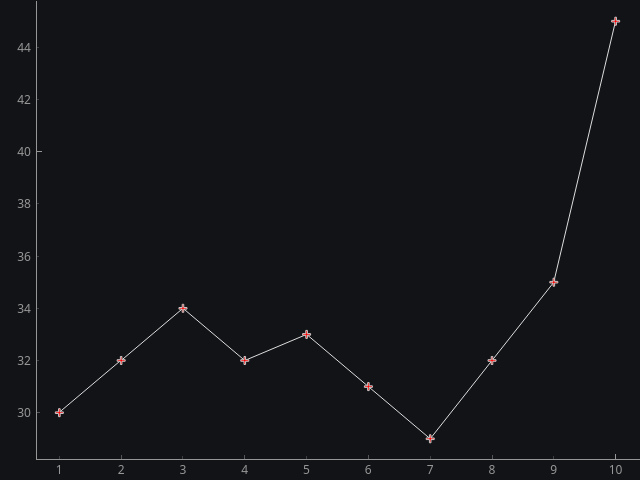
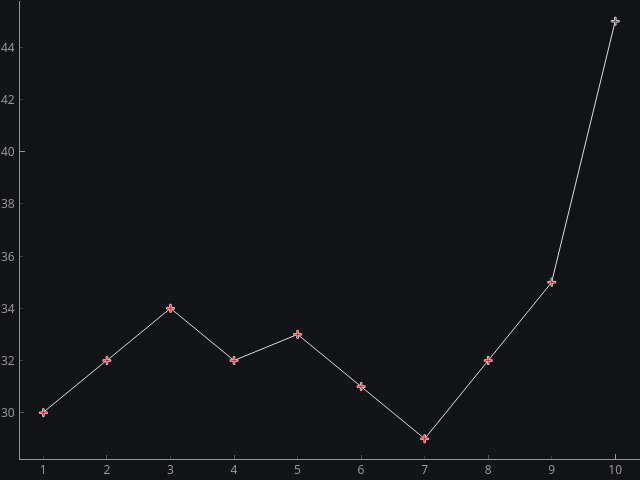
set the line marker, marker size and marker color

diff --git a/pyqtplot04.py b/pyqtplot04.py
@@ -9,7 +9,6 @@ import sys
 
 import pyqtgraph as pg
 from PyQt6 import QtCore, QtWidgets
-from pyqtgraph import exporters
 
 
 class MainWindow(QtWidgets.QMainWindow):
@@ -19,7 +18,7 @@ class MainWindow(QtWidgets.QMainWindow):
         super().__init__()
 
         # set the size parameters (width, height) pixels
-        self.setFixedSize(QtCore.QSize(400, 300))
+        self.setFixedSize(QtCore.QSize(640, 480))
 
         # set the central widget of the window
         self.graphWidget = pg.PlotWidget()
@@ -37,10 +36,6 @@ class MainWindow(QtWidgets.QMainWindow):
         self.graphWidget.plot(
             hour, temperature, pen=lvalue, symbol="+", symbolSize=8, symbolBrush=("r")
         )
-
-        # create an exporter instance, give it the item to export
-        self.exporter = exporters.ImageExporter(self.graphWidget.plotItem)
-        self.exporter.export("pyqtplot04.png")
 
 
 def main():
